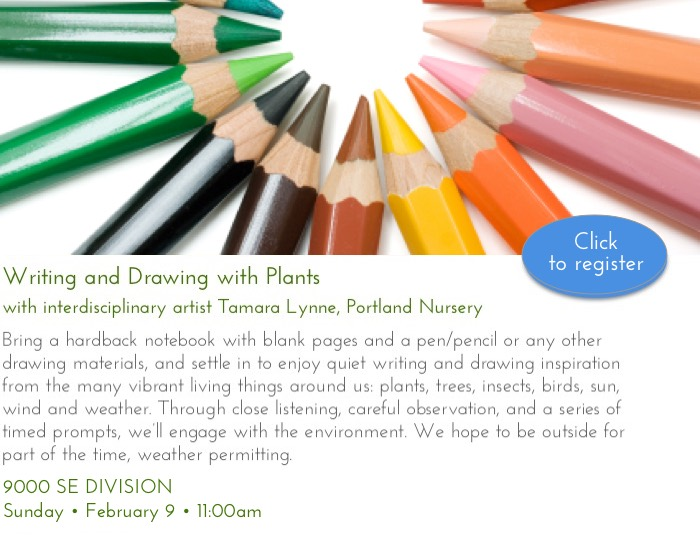
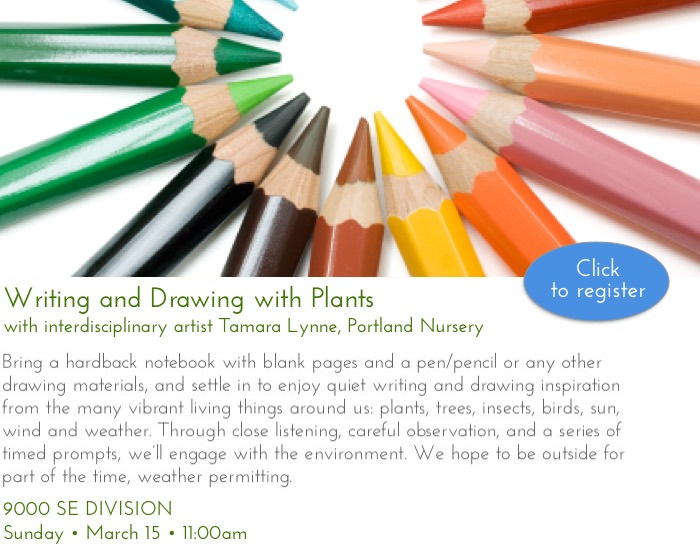
Mar 5

diff --git a/newsletters20/feb27-strawberries.html b/newsletters20/feb27-strawberries.html
@@ -66,7 +66,7 @@
                                                                                         </div>
 
                                                                                         <div style="text-align: center; margin: 10px 0; padding: 0;font-family: arial,helvetica,sans-serif;font-size: 12px;">
-                                                                                            March 5, 2020
+                                                                                            February 27, 2020
                                                                                         </div>
                                                                                     </td>
                                                                                 </tr>
@@ -294,7 +294,39 @@
 
                                              </tr><!-- End Single Image Row -->
 
+                                            <!-- ==================== Single image with title ===================== -->
+                                            <tr>
+                                                <td>
+                                                    <div style="align:center;" class="">
+                                                        <table border="0" cellpadding="0" cellspacing="0" width="100%" style="table-layout: fixed;">
+                                                            <tbody>
+                                                                <tr>
+                                                                    <td>
+                                                                         <div class="noWrapImageWrapper" style="text-align: center; margin: 0; padding: 10px 20px 0;"><a href="https://www.eventbrite.com/e/build-your-own-fertilizer-tickets-92819594907" onclick="window.open(this.href,  null, 'height=483, =680, toolbar=0, location=0, status=1, scrollbars=1, resizable=1'); return false"><img alt="" src="https://portlandnursery.com/newsletter/images/classes/fertilizerbuild.jpg" style="margin: 0px;display: inline;" /></a></div>
+                                                                    </td>
+                                                                </tr>
+                                                            </tbody>
+                                                        </table>
+                                                    </div>
+                                                </td>
+                                            </tr><!-- End Single Image Row -->
+                                             <!-- ==================== Divider Row ===================== -->
 
+                                        <tr>
+                                            <td style="border: 0px solid transparent; padding: 0; color: #555555;width: 100%;">
+                                                <div style="text-align:center;" class="">
+                                                    <table border="0" cellpadding="0" cellspacing="0" width="100%" style="table-layout: fixed;">
+                                                        <tbody>
+                                                            <tr>
+                                                                <td style="border: 0px solid transparent; padding: 0 20px; color: #555555;width: 100%;">
+                                                                    <div class="noWrapImageWrapper" style="border-top:1px solid #CCC;text-align: center; margin: 20px 0; padding: 0;"><img alt="" src="https://portlandnursery.com/images-layout/spacer_CCCCCC.gif" style="margin: 0;display: inline;"></div>
+                                                                </td>
+                                                            </tr>
+                                                        </tbody>
+                                                    </table>
+                                                </div>
+                                            </td>
+                                        </tr><!-- End Divider Row -->
 
 
                                           <!-- ==================== Single image with title ===================== -->
@@ -313,9 +345,7 @@
                                                     </div>
                                                 </td>
                                             </tr><!-- End Single Image Row -->
-
-
-                                         <!-- ==================== Divider Row ===================== -->
+                                                                                      <!-- ==================== Divider Row ===================== -->
 
                                         <tr>
                                             <td style="border: 0px solid transparent; padding: 0; color: #555555;width: 100%;">
@@ -332,8 +362,7 @@
                                                 </div>
                                             </td>
                                         </tr><!-- End Divider Row -->
-
-                                        <!-- ==================== Single image with title ===================== -->
+                                                                                  <!-- ==================== Single image with title ===================== -->
                                             <tr>
                                                 <td>
                                                     <div style="align:center;" class="">
@@ -341,7 +370,7 @@
                                                             <tbody>
                                                                 <tr>
                                                                     <td>
-                                                                         <div class="noWrapImageWrapper" style="text-align: center; margin: 0; padding: 10px 20px 0;"><a href="https://portlandnursery.wufoo.com/forms/zq791jw1e1ajl0/" onclick="window.open(this.href,  null, 'height=483, =680, toolbar=0, location=0, status=1, scrollbars=1, resizable=1'); return false"><img alt="" src="https://portlandnursery.com/newsletter/images/classes/drawing.jpg" style="margin: 0px;display: inline;" /></a></div>
+                                                                         <div class="noWrapImageWrapper" style="text-align: center; margin: 0; padding: 10px 20px 0;"><a href="https://www.eventbrite.com/e/seed-starting-basics-tickets-93998460927" onclick="window.open(this.href,  null, 'height=483, =680, toolbar=0, location=0, status=1, scrollbars=1, resizable=1'); return false"><img alt="" src="https://portlandnursery.com/newsletter/images/classes/seedstarting.jpg" style="margin: 0px;display: inline;" /></a></div>
                                                                     </td>
                                                                 </tr>
                                                             </tbody>
@@ -349,7 +378,7 @@
                                                     </div>
                                                 </td>
                                             </tr><!-- End Single Image Row -->
-                                             <!-- ==================== Divider Row ===================== -->
+                                                                                      <!-- ==================== Divider Row ===================== -->
 
                                         <tr>
                                             <td style="border: 0px solid transparent; padding: 0; color: #555555;width: 100%;">
@@ -386,41 +415,6 @@
 
 
                                            <!-- ==================== Divider Row ===================== -->
-
-                                        <tr>
-                                            <td style="border: 0px solid transparent; padding: 0; color: #555555;width: 100%;">
-                                                <div style="text-align:center;" class="">
-                                                    <table border="0" cellpadding="0" cellspacing="0" width="100%" style="table-layout: fixed;">
-                                                        <tbody>
-                                                            <tr>
-                                                                <td style="border: 0px solid transparent; padding: 0 20px; color: #555555;width: 100%;">
-                                                                    <div class="noWrapImageWrapper" style="border-top:1px solid #CCC;text-align: center; margin: 20px 0; padding: 0;"><img alt="" src="https://portlandnursery.com/images-layout/spacer_CCCCCC.gif" style="margin: 0;display: inline;"></div>
-                                                                </td>
-                                                            </tr>
-                                                        </tbody>
-                                                    </table>
-                                                </div>
-                                            </td>
-                                        </tr><!-- End Divider Row -->
-
-                                          <!-- ==================== Single image with title ===================== -->
-                                            <tr>
-                                                <td>
-                                                    <div style="align:center;" class="">
-                                                        <table border="0" cellpadding="0" cellspacing="0" width="100%" style="table-layout: fixed;">
-                                                            <tbody>
-                                                                <tr>
-                                                                    <td>
-                                                                         <div class="noWrapImageWrapper" style="text-align: center; margin: 0; padding: 10px 20px 0;"><a href="https://portlandnursery.wufoo.com/forms/z17u0ed018vg9uy/" onclick="window.open(this.href,  null, 'height=483, =680, toolbar=0, location=0, status=1, scrollbars=1, resizable=1'); return false"><img alt="" src="https://portlandnursery.com/newsletter/images/classes/gardenherbs.jpg" style="margin: 0px;display: inline;" /></a></div>
-                                                                    </td>
-                                                                </tr>
-                                                            </tbody>
-                                                        </table>
-                                                    </div>
-                                                </td>
-                                            </tr><!-- End Single Image Row -->
-
-                                          <!-- ==================== Divider Row ===================== -->
 
                                         <tr>
                                             <td style="border: 0px solid transparent; padding: 0; color: #555555;width: 100%;">
@@ -549,8 +543,16 @@
                                                                     <td>
 
 <div style="font-family:'Josefin Sans',Arial, Helvetica, sans-serif;font-size:24px;font-weight: 300;color:#555555;line-height:130%;padding: 0;margin-bottom: 15px;padding: 0 20px;">
+                                                <strong>Build-Your-Own Fertilizer</strong><br>5050 SE STARK &bull; Saturday &bull; March 7 &bull; 1:00pm<br>
+<a href="https://www.eventbrite.com/e/build-your-own-fertilizer-tickets-92819594907" onclick="window.open(this.href,  null, 'height=483, =680, toolbar=0, location=0, status=1, scrollbars=1, resizable=1'); return false">Click here to register for this class.</a></div>
+
+<div style="font-family:'Josefin Sans',Arial, Helvetica, sans-serif;font-size:24px;font-weight: 300;color:#555555;line-height:130%;padding: 0;margin-bottom: 15px;padding: 0 20px;">
                                                 <strong>Tool Maintenance</strong><br>9000 SE DIVISION &bull; Saturday &bull; March 14 &bull; 11:00am<br>
 <a href="https://portlandnursery.wufoo.com/forms/zhwnoi60bsv7qd/" onclick="window.open(this.href,  null, 'height=483, =680, toolbar=0, location=0, status=1, scrollbars=1, resizable=1'); return false">Click here to register for this class.</a></div>
+
+<div style="font-family:'Josefin Sans',Arial, Helvetica, sans-serif;font-size:24px;font-weight: 300;color:#555555;line-height:130%;padding: 0;margin-bottom: 15px;padding: 0 20px;">
+                                                <strong>Seed Starting Basics</strong><br>5050 SE STARK &bull; Sunday &bull; March 15 &bull; 11:00am<br>
+<a href="https://www.eventbrite.com/e/seed-starting-basics-tickets-93998460927" onclick="window.open(this.href,  null, 'height=483, =680, toolbar=0, location=0, status=1, scrollbars=1, resizable=1'); return false">Click here to register for this class.</a></div>
 
 <div style="font-family:'Josefin Sans',Arial, Helvetica, sans-serif;font-size:24px;font-weight: 300;color:#555555;line-height:130%;padding: 0;margin-bottom: 15px;padding: 0 20px;">
                                                 <strong>Writing and Drawing with Plants</strong><br>9000 SE DIVISION &bull; Sunday &bull; March 15 &bull; 11:00am<br>
@@ -602,6 +604,15 @@
 <div style="font-family:'Josefin Sans',Arial, Helvetica, sans-serif;font-size:24px;font-weight: 300;color:#555555;line-height:130%;padding: 0;margin-bottom: 15px;padding: 0 20px;">
                                                 <strong>Flavorful Salad Greens: What, Why, and How</strong><br>5050 SE STARK &bull; Sunday &bull; March 29 &bull; 11:00am<br>
 <a href="https://www.eventbrite.com/e/flavorful-greens-in-temperate-climates-what-why-and-how-tickets-93366530807" onclick="window.open(this.href,  null, 'height=483, =680, toolbar=0, location=0, status=1, scrollbars=1, resizable=1'); return false">Click here to register for this class.</a></div>
+
+<div style="font-family:'Josefin Sans',Arial, Helvetica, sans-serif;font-size:24px;font-weight: 300;color:#555555;line-height:130%;padding: 0;margin-bottom: 15px;padding: 0 20px;">
+                                                <strong>Organic Culinary Herb Gardening</strong><br>9000 SE DIVISION &bull; Sunday &bull; March 29 &bull; 11:00am<br>
+<a href="https://portlandnursery.wufoo.com/forms/z1r4do940p9cfev/" onclick="window.open(this.href,  null, 'height=483, =680, toolbar=0, location=0, status=1, scrollbars=1, resizable=1'); return false">Click here to register for this class.</a></div>
+
+<div style="font-family:'Josefin Sans',Arial, Helvetica, sans-serif;font-size:24px;font-weight: 300;color:#555555;line-height:130%;padding: 0;margin-bottom: 15px;padding: 0 20px;">
+                                                <strong>Year-Round Veggie Gardening: Next Steps</strong><br>5050 SE STARK &bull; Sunday &bull; March 29 &bull; 1:00pm<br>
+<a href="https://www.eventbrite.com/e/year-round-veggie-gardening-next-steps-tickets-93368013241" onclick="window.open(this.href,  null, 'height=483, =680, toolbar=0, location=0, status=1, scrollbars=1, resizable=1'); return false">Click here to register for this class.</a></div>
+
 
                                                                 </td>
                                                             </tr>
